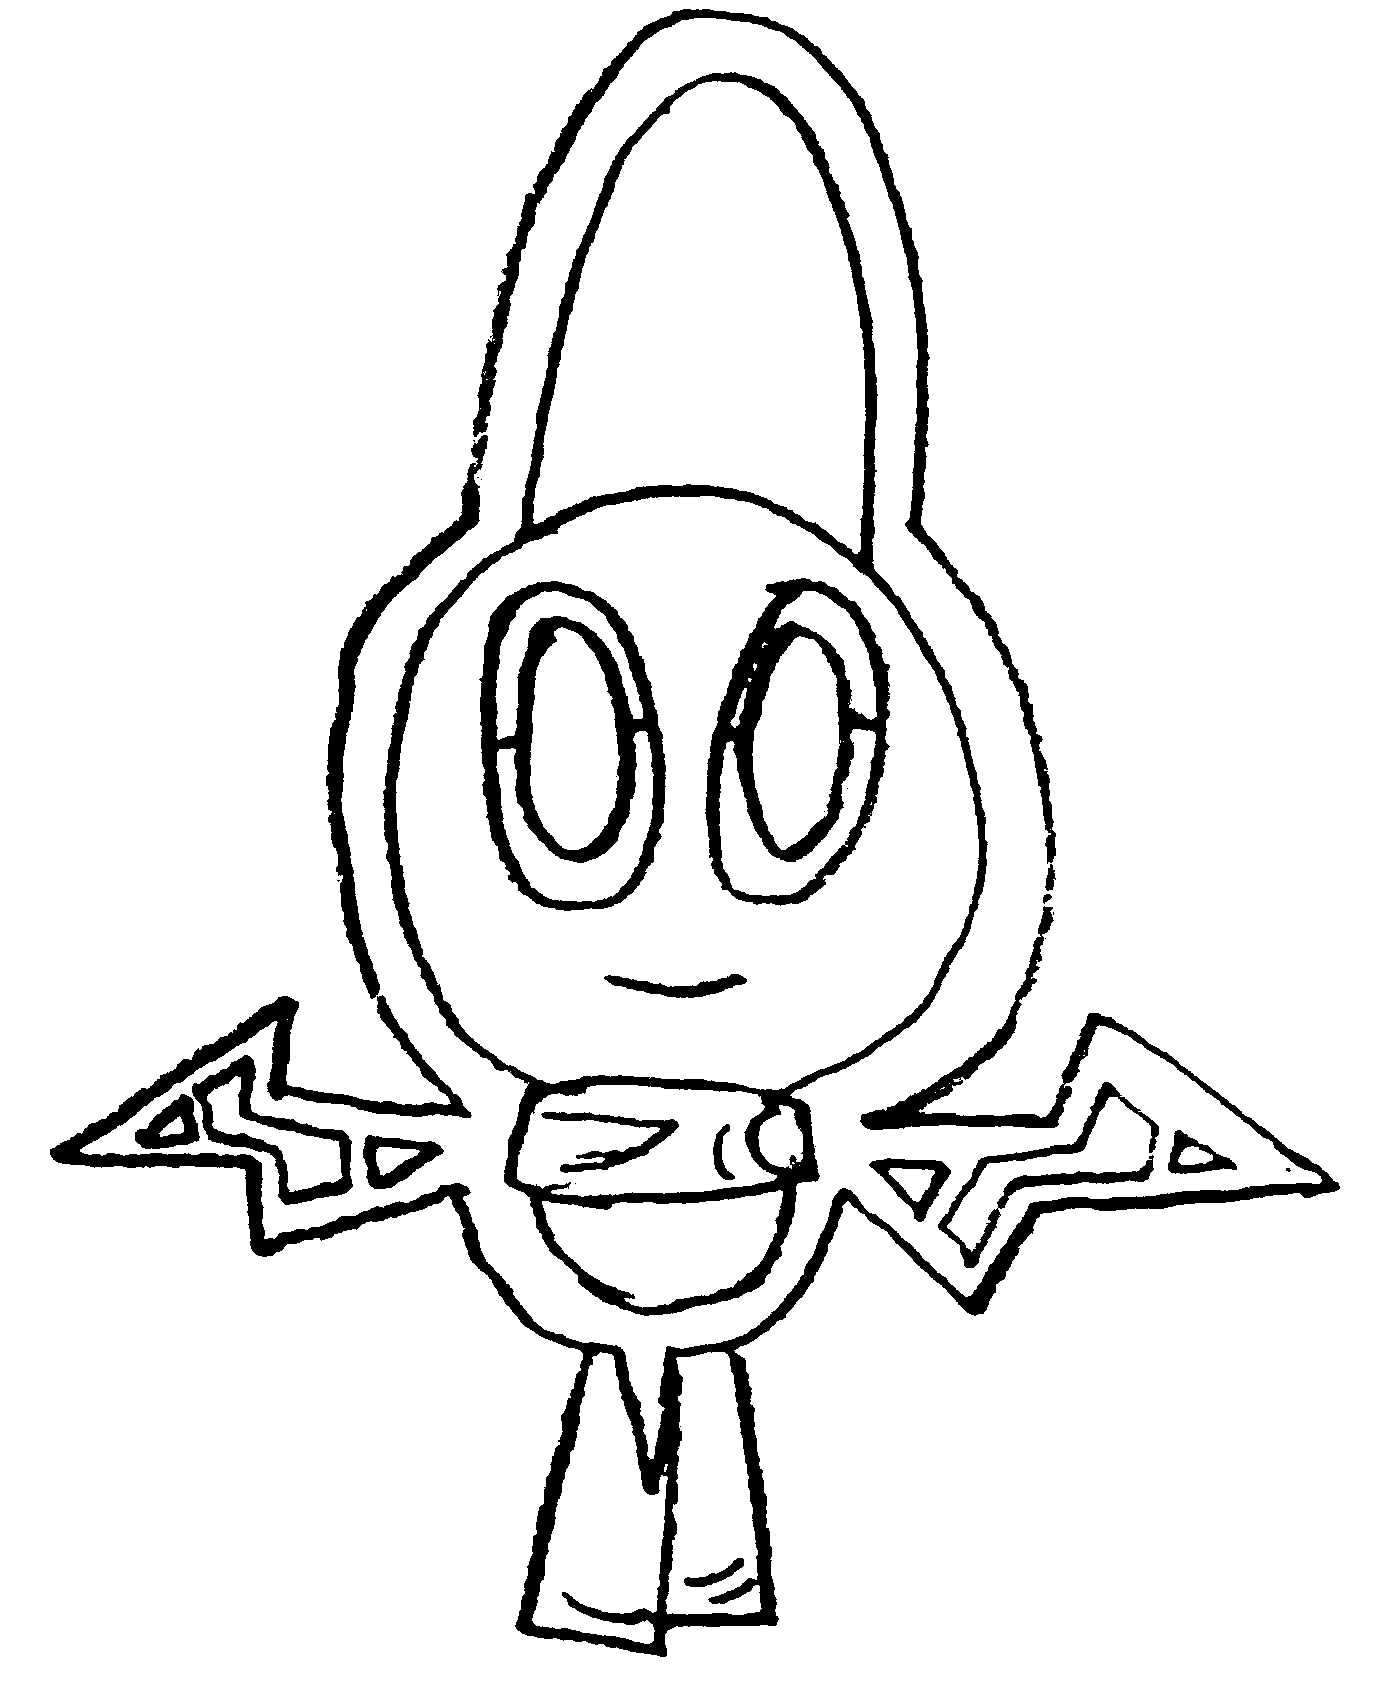
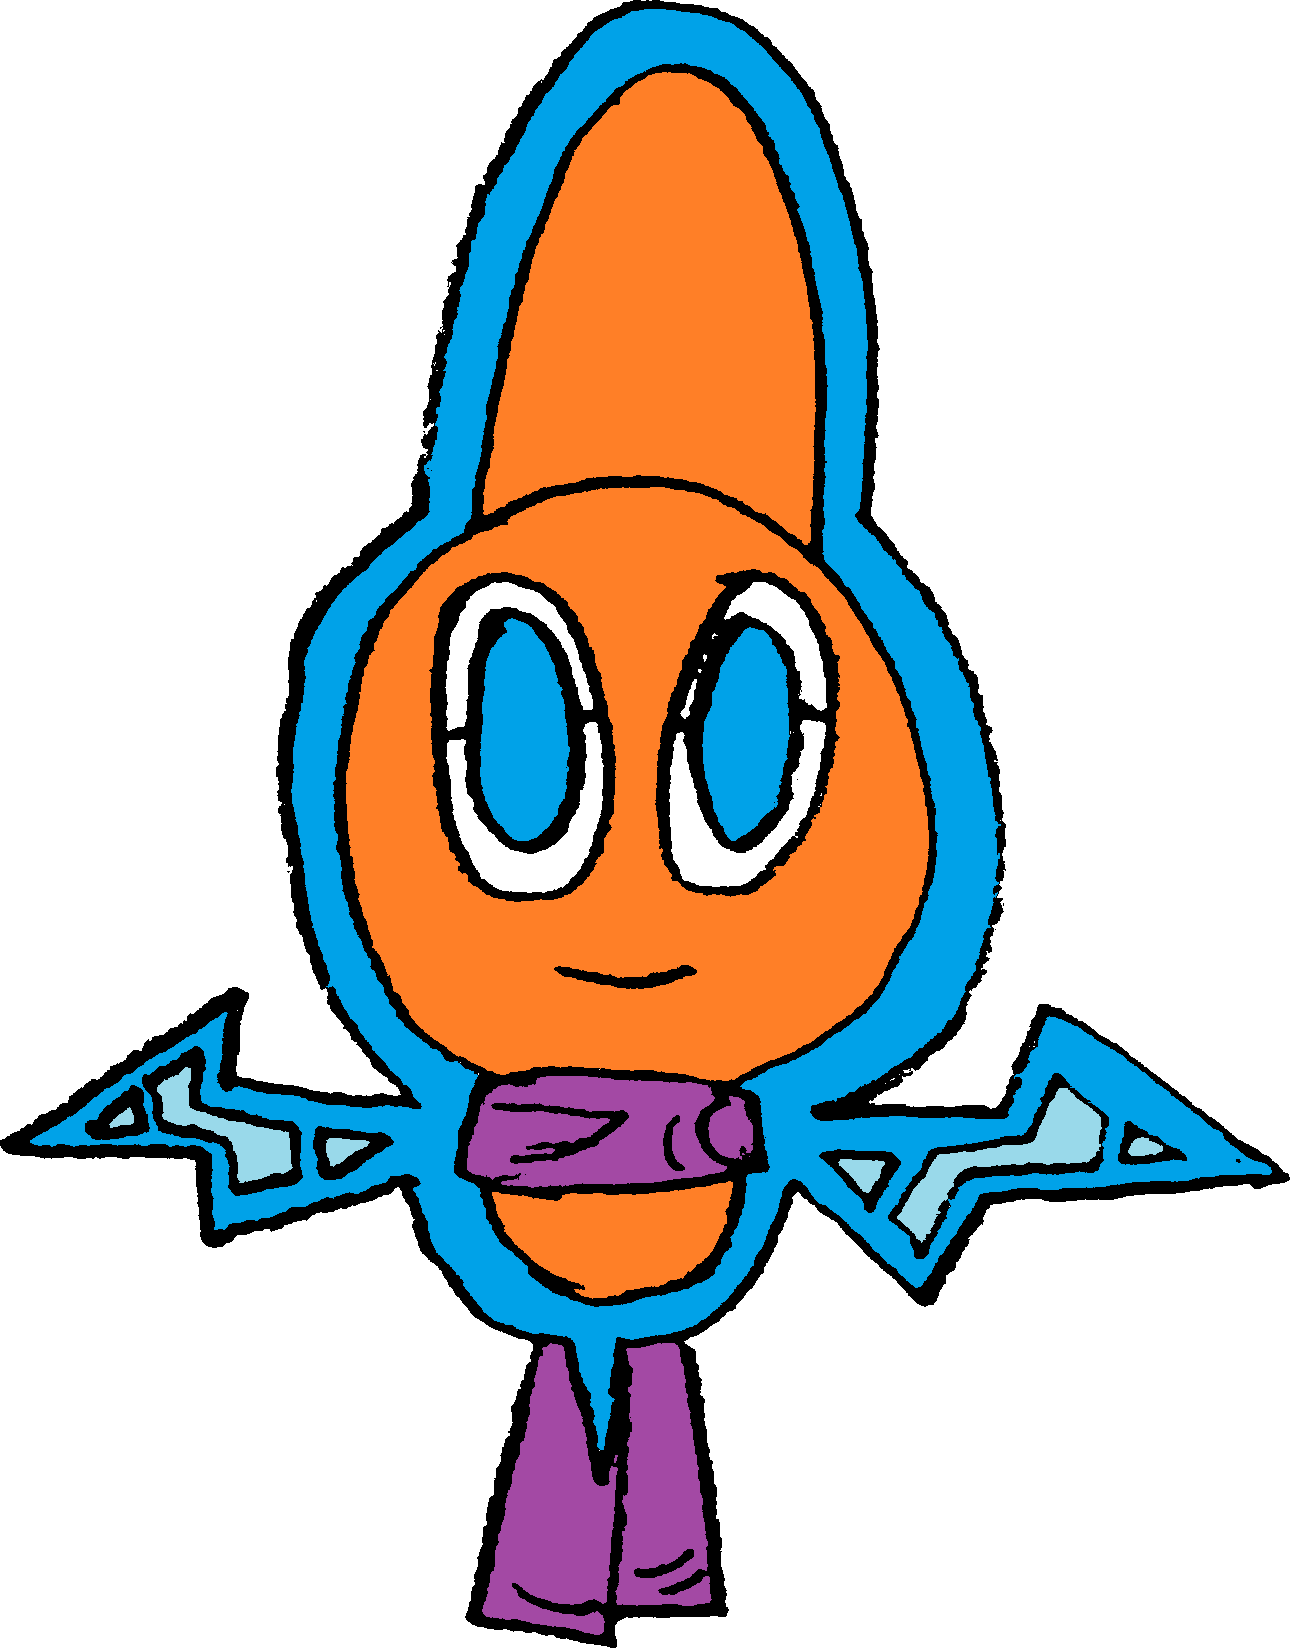
color

diff --git a/index.html b/index.html
@@ -12,6 +12,6 @@
     <link rel="stylesheet" href="site.css">
 </head>
 <body>
-    <a href="sed"><img src="m/sed.png" alt="SED" title="SED" width="99%" height="1698px" style="text-align:center;margin: auto;max-width:99vw;max-height: 90vh;object-fit:contain;"></a>
+    <a href="sed"><img src="m/sed.png" alt="SED" title="SED" width="99%" height="1648px" style="text-align:center;margin: auto;max-width:99vw;max-height: 90vh;object-fit:contain;"></a>
 </body>
 </html>
